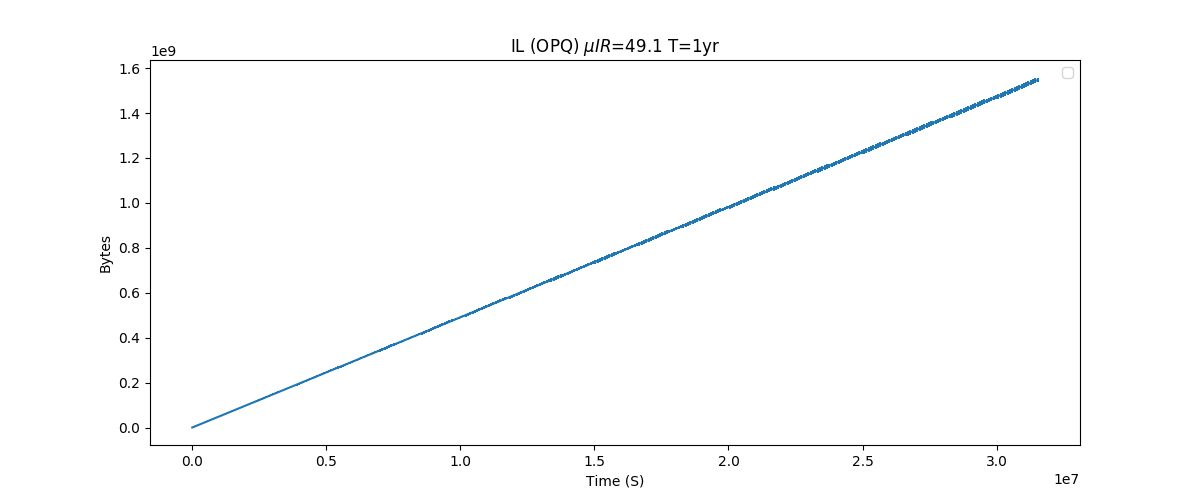
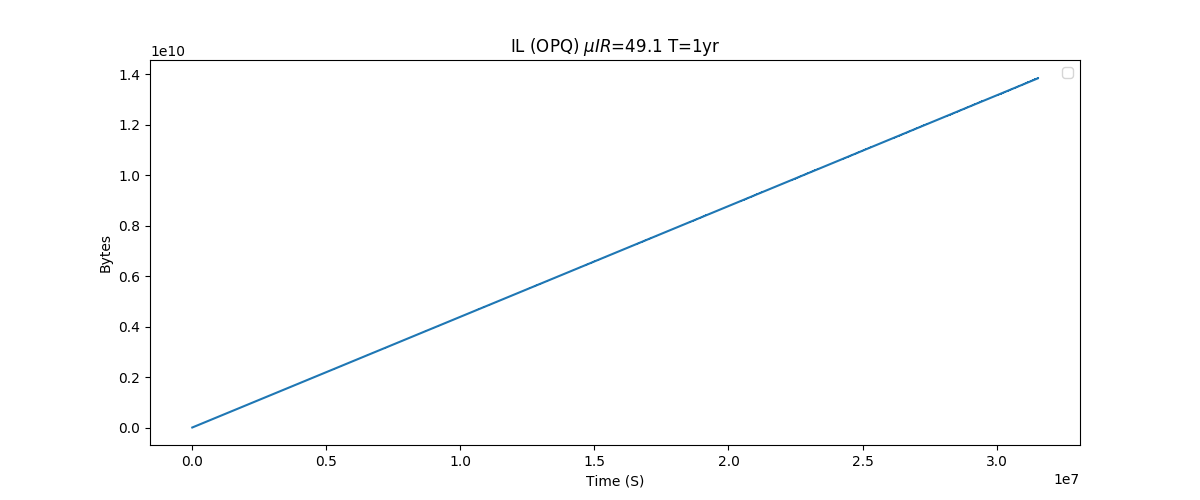
Philip's edits.

diff --git a/src/evaluation.tex b/src/evaluation.tex
@@ -330,10 +330,10 @@ Let's next compare the estimated sizes of the DL for the OPQ and Lokahi networks
 	\caption{Estimated $DR$}
 	\begin{tabularx}{\textwidth}{llllll}
 		\toprule
-		\textbf{Network} & $\bm{\mu DR}$ & $\bm{\sigma DR}$ & Data/Day $ \\
+		\textbf{Network} & $\bm{\mu DR}$ & $\bm{\sigma DR}$ & \textbf{Data/Day} & \textbf{Data/Week} & \textbf{Data/Year} \\
 		\midrule
-		OPQ & 8211.7 & 185544.8 \\
-		Lokahi & 0.0 & 0.0 \\
+		OPQ & 8211.7 & 185544.8 & 0.71 GB & 4.97 GB & 258.96 GB \\
+		Lokahi & 0.0 & 0.0 & & &  \\
 		\bottomrule
 	\end{tabularx}
 	\label{table:estimated_mu_dr}
@@ -380,30 +380,30 @@ Equations~\ref{eq:il:e0} and~\ref{eq:il:e1} provide error bounds on the estimate
 	\delta S_{IL} &= \delta IR * |T| \label{eq:il:e1}
 \end{align}
 
-Let us next compare the estimated sizes of the IL for the OPQ and Lokahi networks using statistics gathered for these networks. Table~\ref{table:estimated_mu_ir} provides the parameters used for these comparisons.
+Let us next compare the estimated sizes of the IL for the OPQ and Lokahi networks using statistics gathered for these networks. These values were obtained directly from data collected during OPQ and Lokai deployments. Table~\ref{table:estimated_mu_ir} provides the parameters used for these comparisons.
 
 \begin{table}[H]
 	\centering
 	\caption{Estimated $IR$}
-	\begin{tabularx}{\textwidth}{lll}
+	\begin{tabularx}{\textwidth}{llllll}
 		\toprule
-		\textbf{Network} & $\bm{\mu DR}$ & $\bm{\sigma DR}$ \\
+		\textbf{Network} & $\bm{\mu DR}$ & $\bm{\sigma DR}$ & \textbf{Data/Day} & \textbf{Data/Week} & \textbf{Data/Year} \\
 		\midrule
-		OPQ & 49.1 & 1942.5 \\
-		Lokahi & 0.0 & 0.0 \\
+		OPQ & 438.58 & 6288.48 & 0.04 GB & 0.27 GB & 13.83 GB \\
+		Lokahi & 0.0 & 0.0 & & & \\
 		\bottomrule
 	\end{tabularx}
 	\label{table:estimated_mu_ir}
 \end{table}
 
-Figure~\ref{fig:plot_il_opq_avg} shows the estimated size for the IL on the OPQ network. The errors are small enough that they are not discernible in this plot. Over a period of one year, the IL is expected to grow to 1.44 gigabytes $\pm$ 0.01 gigabytes.
-
-\begin{figure}[H]
-	\centering
-	\includegraphics[width=\linewidth]{figures/plot_il_opq_avg.png}
-	\caption{Estimated OPQ IL}
-	\label{fig:plot_il_opq_avg}
-\end{figure}
+%Figure~\ref{fig:plot_il_opq_avg} shows the estimated size for the IL on the OPQ network. The errors are small enough that they are not discernible in this plot. Over a period of one year, the IL is expected to grow to 1.44 gigabytes $\pm$ 0.01 gigabytes.
+%
+%\begin{figure}[H]
+%	\centering
+%	\includegraphics[width=\linewidth]{figures/plot_il_opq_avg.png}
+%	\caption{Estimated OPQ IL}
+%	\label{fig:plot_il_opq_avg}
+%\end{figure}
 
 \paragraph{PL Requirements}
 The Phenomena Level provides actionable insights and context beyond what is provided in the IL. Examples of added context include predictive analysis, Annotations, or similarity metrics between Incidents. The Phenomena level consists mainly of metadata describing the Phenomena. Different types of Phenomena require varying amounts of metadata.
@@ -447,8 +447,8 @@ First, let's look at the size of Laha with parameters estimated from OPQ. The es
 		$S_{TREND}$ & 324 & 0.0 \\
 		$R_{TREND}$ & $\frac{1}{60}$ & 0.0 \\
 		$\mu N_{SEN}$ & 9.9 & 0.7 \\
-		$\mu DR$ & 13064.0 & 200712.1 \\
-		$\mu IR$ & 49.1 & 1942.5 \\
+		$\mu DR$ & 8211.7 & 185544.8 \\
+		$\mu IR$ & 438.5 & 6288.4 \\
 		\bottomrule
 	\end{tabularx}
 	\label{table:estimated_laha_opq}

diff --git a/plotting/plots.py b/plotting/plots.py
@@ -367,8 +367,8 @@ def plot_iml_average():
 def plot_dl_opq_avg():
     plt.figure(figsize=(12, 5))
 
-    mu_dr = 13064.9
-    sigma_dr = 200712.1
+    mu_dr = 8211.7
+    sigma_dr = 185544.8
 
     x_values = np.arange(1, S_IN_YEAR, step=S_IN_DAY)
     y_values = mu_dr * x_values
@@ -390,8 +390,8 @@ def plot_dl_opq_avg():
 def plot_il_opq_avg():
     plt.figure(figsize=(12, 5))
 
-    mu_dr = 49.06178717801157
-    sigma_dr = 1942.4922482680722
+    mu_dr = 438.58
+    sigma_dr = 6288.48
 
     x_values = np.arange(S_IN_YEAR, step=S_IN_DAY)
     y_values = mu_dr * x_values
@@ -445,16 +445,16 @@ def plot_laha_opq():
     plt.errorbar(x_values, aml_size_total, yerr=aml_size_e, label="AML")
 
     # DL
-    mu_dr = 13064.0
-    sigma_dr = 200712.1
+    mu_dr = 8211.741437354178
+    sigma_dr = 185544.81743550362
 
     dl_size = mu_dr * x_values
     dl_size_e = (sigma_dr / np.sqrt(x_values)) * np.abs(x_values)
     plt.errorbar(x_values, dl_size, yerr=dl_size_e, label="DL")
 
     # IL
-    mu_il = 49.1
-    sigma_il = 1942.5
+    mu_il = 438.57850995956863
+    sigma_il = 6288.484706127778
 
     il_size = mu_il * x_values
     il_size_e = (sigma_il / np.sqrt(x_values)) * np.abs(x_values)
@@ -508,16 +508,16 @@ def plot_laha_opq_no_iml():
     plt.errorbar(x_values, aml_size_total, yerr=aml_size_e, label="AML")
 
     # DL
-    mu_dr = 13064.0
-    sigma_dr = 200712.1
+    mu_dr = 8211.741437354178
+    sigma_dr = 185544.81743550362
 
     dl_size = mu_dr * x_values
     dl_size_e = (sigma_dr / np.sqrt(x_values)) * np.abs(x_values)
     plt.errorbar(x_values, dl_size, yerr=dl_size_e, label="DL")
 
     # IL
-    mu_il = 49.1
-    sigma_il = 1942.5
+    mu_il = 438.57850995956863
+    sigma_il = 6288.484706127778
 
     il_size = mu_il * x_values
     il_size_e = (sigma_il / np.sqrt(x_values)) * np.abs(x_values)
@@ -557,10 +557,10 @@ def plot_laha_opq_pie():
     aml_size_trend = s_trend * r_trend * mu_n_sens * x_values
 
     # DL
-    mu_dr = 13064.0
+    mu_dr = 8211.741437354178
     dl_size = mu_dr * x_values
     # IL
-    mu_il = 49.1
+    mu_il = 438.57850995956863
     il_size = mu_il * x_values
 
     plt.subplot(1, 2, 1)
@@ -597,8 +597,8 @@ if __name__ == "__main__":
     # plot_dl_opq_no_err()
     # plot_dl_opq_err()
     # plot_iml_average()
-    # plot_dl_opq_avg()
+    plot_dl_opq_avg()
     plot_il_opq_avg()
     plot_laha_opq()
-    # plot_laha_opq_no_iml()
-    # plot_laha_opq_pie()
+    plot_laha_opq_no_iml()
+    plot_laha_opq_pie()
